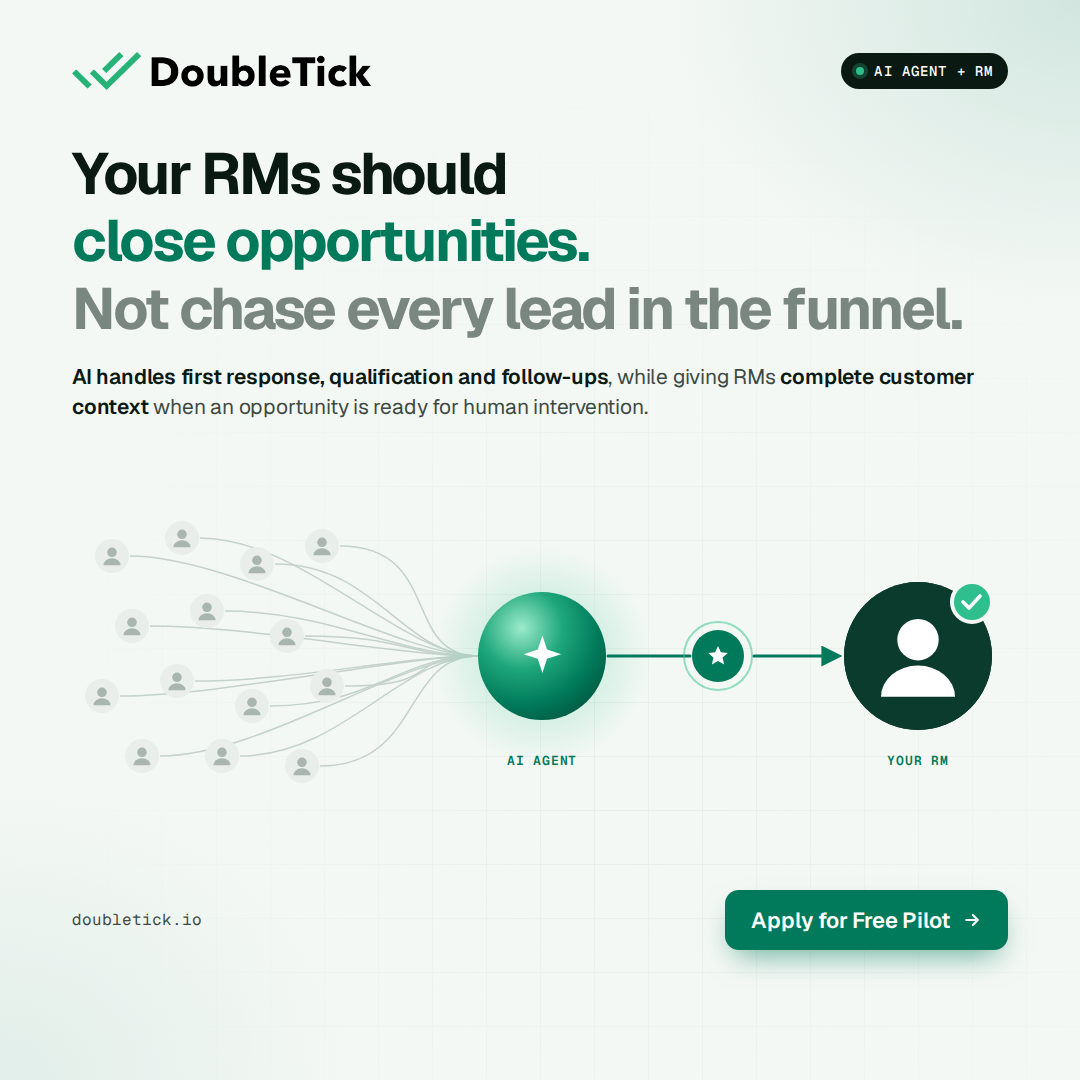
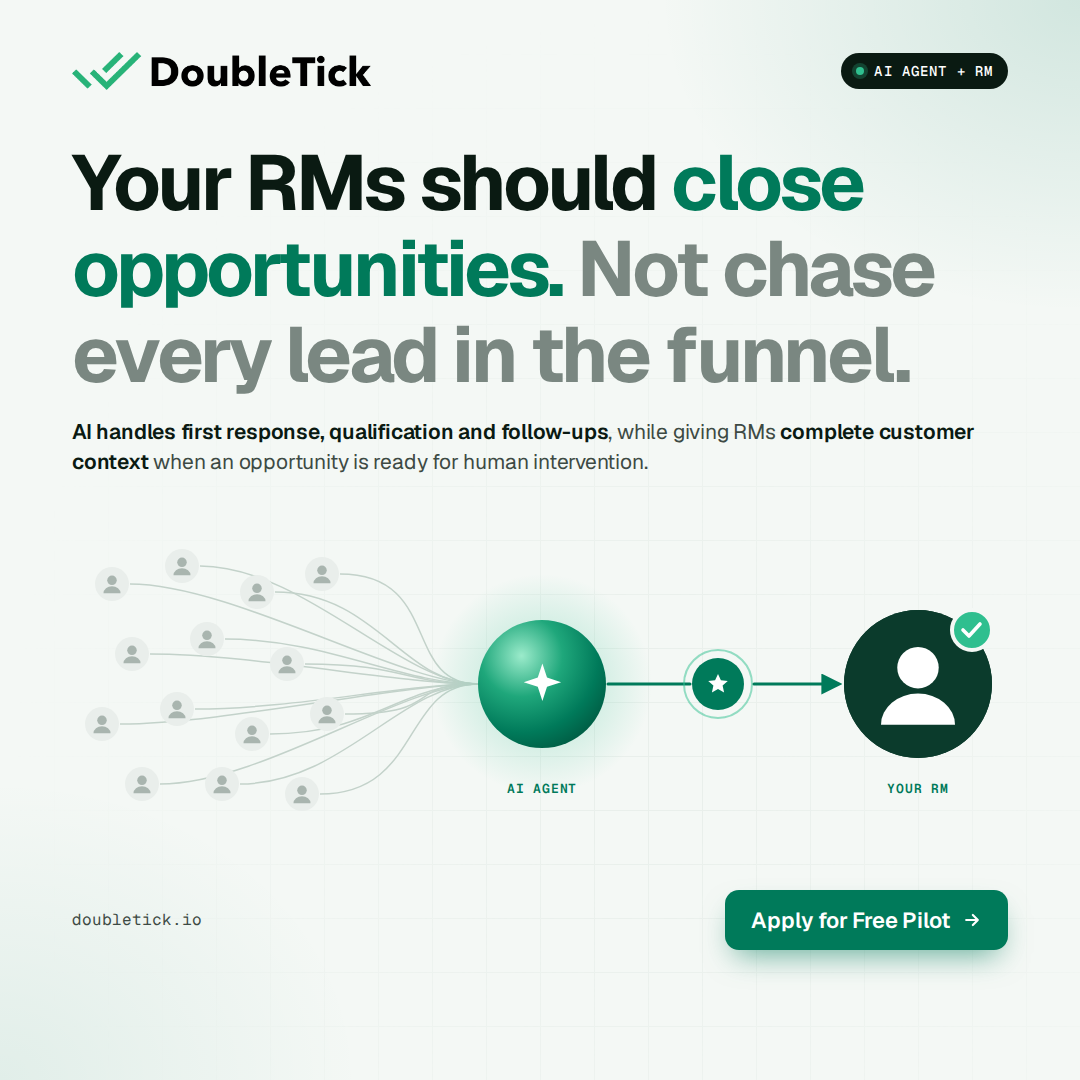
feat: rebalance RM focus hook into three larger lines
Claude-Session: https://claude.ai/code/session_013Hi5o4KgvuLbKTeGkStAKX

diff --git a/ads/doubletick-ai-rm-focus/index.html b/ads/doubletick-ai-rm-focus/index.html
@@ -52,7 +52,7 @@
   }
   .pill i { width: 8px; height: 8px; border-radius: 50%; background: var(--green-2); box-shadow: 0 0 0 4px rgba(47,191,143,.25); }
 
-  h1 { margin-top: 10px; font-size: 58px; line-height: 1.16; letter-spacing: -0.04em; font-weight: 700; }
+  h1 { margin-top: 10px; font-size: 78px; line-height: 1.1; letter-spacing: -0.04em; font-weight: 700; }
   h1 .drop { color: var(--muted); }
   h1 .die { color: var(--red); }
   h1 em { font-style: normal; color: var(--green); }
@@ -79,7 +79,7 @@
     <div class="pill mono"><i></i>AI Agent + RM</div>
   </div>
 
-  <h1>Your RMs should<br/><em>close opportunities.</em><br/><span class="drop">Not chase every lead in the funnel.</span></h1>
+  <h1>Your RMs should <em>close</em><br/><em>opportunities.</em> <span class="drop">Not chase</span><br/><span class="drop">every lead in the funnel.</span></h1>
   <p class="sub"><b>AI handles first response, qualification and follow-ups</b>, while giving RMs <b>complete customer context</b> when an opportunity is ready for human intervention.</p>
 
   <div class="flow">
